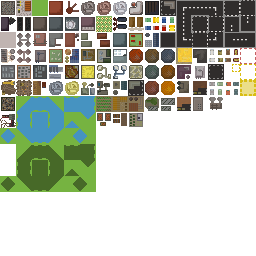
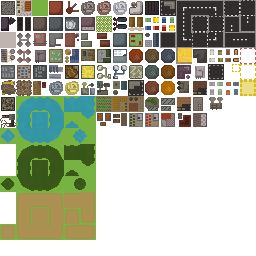
fix ci

diff --git a/src/game/ui/construction.rs b/src/game/ui/construction.rs
@@ -19,7 +19,7 @@ use crate::game::{
         DeliveryStation, Depot, ImportExportDirection, ImportExportStation, StorageManagement,
     },
     storage::Storage,
-    street::Street,
+    street::{Path, Street},
 };
 
 fn button(
@@ -29,13 +29,13 @@ fn button(
     resources: &ResourceSpecifications,
     account: &Account,
 ) -> Response {
-    let price = item.price(&resources);
+    let price = item.price(resources);
 
     let button = ui.small_button(name);
 
     let mut hover_text = format!(
         "{}\n---\nTotal Cost: {} {}",
-        item.price_description(&resources),
+        item.price_description(resources),
         price.to_formatted_string(&Locale::en),
         CURRENCY
     );
@@ -101,8 +101,9 @@ pub fn construction_ui(
             ui.separator();
 
             egui::containers::ScrollArea::from_max_height(max_height).show(ui, |ui| {
-                let building_names: Vec<&str> = vec![
-                    "Street",
+                if vec![
+                    "Street (Road)",
+                    "Street (Dirt)",
                     "Export Station",
                     "Import Station",
                     "Delivery Station",
@@ -110,17 +111,23 @@ pub fn construction_ui(
                     "Storage Management",
                 ]
                 .into_iter()
-                .filter(|item| filter.match_name(item))
-                .collect();
-
-                if !building_names.is_empty() {
+                .any(|item| filter.match_name(item))
+                {
                     let group_title = "Building: General";
                     let items: Box<dyn FnOnce(&mut Ui)> = Box::new(|ui| {
                         ui.vertical_centered_justified(|ui| {
-                            if filter.match_name("Street")
-                                && button(ui, "Street", &Street, &resources, &account).clicked()
+                            if filter.match_name("Street (Road)")
+                                && button(ui, "Street (Road)", &Street, &resources, &account)
+                                    .clicked()
                             {
                                 selected_tool.tool = Tool::Street;
+                            }
+
+                            if filter.match_name("Street (Dirt)")
+                                && button(ui, "Street (Dirt)", &Path, &resources, &account)
+                                    .clicked()
+                            {
+                                selected_tool.tool = Tool::Path;
                             }
 
                             if filter.match_name("Export Station")

diff --git a/src/game/street.rs b/src/game/street.rs
@@ -20,6 +20,10 @@ use crate::game::{
 #[serde(deny_unknown_fields)]
 pub struct Street;
 
+#[derive(Clone, Serialize, Deserialize, Default)]
+#[serde(deny_unknown_fields)]
+pub struct Path;
+
 impl From<Street> for MapTile {
     fn from(_: Street) -> MapTile {
         MapTile::ExportStation
@@ -32,31 +36,47 @@ impl From<Street> for LayerIndex {
     }
 }
 
+impl From<Path> for MapTile {
+    fn from(_: Path) -> MapTile {
+        MapTile::PathTilesOffset
+    }
+}
+
+impl From<Path> for LayerIndex {
+    fn from(_: Path) -> LayerIndex {
+        LayerIndex::new(BUILDING_LAYER_ID)
+    }
+}
+
 impl PurchaseCost for Street {
     fn price(&self, _resources: &ResourceSpecifications) -> i64 {
         100
     }
 }
 
-pub fn update_streets(
+impl PurchaseCost for Path {
+    fn price(&self, _resources: &ResourceSpecifications) -> i64 {
+        0
+    }
+}
+
+pub fn update_streets<T: 'static + Send + Sync + Default>(
     mut tile_query: Query<
         (&mut Tile, &Position),
-        (
-            With<Street>,
-            With<RequiresUpdate>,
-            Without<UnderConstruction>,
-        ),
+        (With<T>, With<RequiresUpdate>, Without<UnderConstruction>),
     >,
-    street_query: Query<(), With<Street>>,
+    street_query: Query<(), With<T>>,
     map_query: MapQuery,
     map_settings: Res<MapSettings>,
-) {
+) where
+    MapTile: From<T>,
+{
     for (mut tile, position) in tile_query.iter_mut() {
         let mut ns = NeighborStructure::default();
         let pos = UVec2::new(position.position.x, position.position.y);
         let neighbors = map_query.get_tile_neighbors(pos, MAP_ID, BUILDING_LAYER_ID);
         // N, S, W, E, NW, NE, SW, SE.
-        let en = EvalNeighbor {
+        let en: EvalNeighbor<T> = EvalNeighbor {
             map_settings: &map_settings,
             query: &street_query,
         };
@@ -67,7 +87,7 @@ pub fn update_streets(
         ns.east = en.eval_neighbor(neighbors[3]);
 
         let ns_index: u16 = ns.clone().into();
-        tile.texture_index = ns_index + MapTile::from(Street::default()) as u16;
+        tile.texture_index = ns_index + MapTile::from(T::default()) as u16;
         tile.visible = true;
     }
 }

diff --git a/src/game/production/production_building/mod.rs b/src/game/production/production_building/mod.rs
@@ -44,7 +44,7 @@ pub fn production_building(
             let mut has_requisites = true;
             for requisite in product.requisites.iter() {
                 if !has_in_storage(
-                    &consolidator,
+                    consolidator,
                     &mut storage_query,
                     &requisite.resource,
                     requisite.rate,
@@ -76,18 +76,18 @@ pub fn production_building(
                     if has_in_storage(
                         consolidator,
                         &mut storage_query,
-                        &substitute,
+                        substitute,
                         enhancer.rate / rate,
                     ) {
                         modifier *= enhancer.modifier;
-                        consumed_resources.push((&substitute, enhancer.rate / rate));
+                        consumed_resources.push((substitute, enhancer.rate / rate));
                         continue;
                     }
                 }
             }
 
             if has_space_in_storage(
-                &consolidator,
+                consolidator,
                 &mut storage_query,
                 &product.resource,
                 product.rate * modifier,
@@ -113,12 +113,12 @@ pub fn production_building(
         let consumed_resources = &available_products[0].2;
 
         for (resource, amount) in consumed_resources {
-            fetch_from_storage(consolidator, &mut storage_query, &resource, *amount);
-            statistics.consumption.track(&resource, *amount);
+            fetch_from_storage(consolidator, &mut storage_query, resource, *amount);
+            statistics.consumption.track(resource, *amount);
         }
 
         distribute_to_storage(
-            &consolidator,
+            consolidator,
             &mut storage_query,
             &product.resource,
             product.rate * modifier,

diff --git a/src/game/current_tool/street.rs b/src/game/current_tool/street.rs
@@ -10,7 +10,7 @@ use crate::game::{
     construction::UnderConstruction,
     helper::get_entity::get_entity,
     setup::BUILDING_LAYER_ID,
-    street::Street,
+    street::{Path, Street},
 };
 
 use super::{update_neighbor_streets, SelectedTool, Tool};
@@ -33,11 +33,45 @@ pub fn street_placement(
     if let Some(pos) = clicked_tile.pos {
         let entity = get_entity(&mut commands, &mut map_query, pos, BUILDING_LAYER_ID);
 
-        let price = Street::default().price(&resources);
+        let street = Street::default();
+        let price = street.price(&resources);
 
         commands
             .entity(entity)
-            .insert(Street)
+            .insert(street)
+            .insert(RequiresUpdate)
+            .insert(MaintenanceCost::new_from_cost(price))
+            .insert(UnderConstruction::from_fixed_cost(price))
+            .insert(Position { position: pos })
+            .insert(CanDriveOver)
+            .insert(Occupied);
+
+        update_neighbor_streets(&mut commands, &mut map_query, pos, street_query);
+    }
+}
+
+pub fn path_placement(
+    mut commands: Commands,
+    street_query: Query<&Path>,
+    mut map_query: MapQuery,
+    selected_tool: Res<SelectedTool>,
+    clicked_tile: Res<ClickedTile>,
+    resources: Res<ResourceSpecifications>,
+) {
+    if selected_tool.tool != Tool::Path || clicked_tile.occupied_building || !clicked_tile.can_build
+    {
+        return;
+    }
+
+    if let Some(pos) = clicked_tile.pos {
+        let entity = get_entity(&mut commands, &mut map_query, pos, BUILDING_LAYER_ID);
+
+        let street = Path::default();
+        let price = street.price(&resources);
+
+        commands
+            .entity(entity)
+            .insert(street)
             .insert(RequiresUpdate)
             .insert(MaintenanceCost::new_from_cost(price))
             .insert(UnderConstruction::from_fixed_cost(price))

diff --git a/src/game/mod.rs b/src/game/mod.rs
@@ -45,7 +45,7 @@ use self::{
     pathfinder::Pathfinding,
     state_manager::{LoadGameEvent, NewGameEvent, SaveGameEvent},
     statistics::StatisticTracker,
-    street::Street,
+    street::{Path, Street},
     ui::state::{ConfirmDialogState, MainMenuState, SaveGameList},
 };
 
@@ -317,6 +317,7 @@ impl Game {
                     .after(Label::CurrentSelection)
                     .before(Label::Update)
                     .with_system(current_tool::street::street_placement.system())
+                    .with_system(current_tool::street::path_placement.system())
                     .with_system(current_tool::depot::depot_placement.system())
                     .with_system(current_tool::storage::storage_placement.system())
                     .with_system(
@@ -450,7 +451,8 @@ impl Game {
                     .with_system(asset_tiles::delivery_station_update.system())
                     .with_system(asset_tiles::storage_management_update.system())
                     .with_system(asset_tiles::ground_update.system())
-                    .with_system(street::update_streets.system())
+                    .with_system(street::update_streets::<Street>.system())
+                    .with_system(street::update_streets::<Path>.system())
                     .with_system(helper::neighbor_structure::update_tile::<Water>.system())
                     .with_system(helper::neighbor_structure::update_tile::<Forest>.system())
                     .with_system(helper::neighbor_structure::update_tile::<Street>.system())

diff --git a/src/game/production/import_export_station/mod.rs b/src/game/production/import_export_station/mod.rs
@@ -32,7 +32,7 @@ pub fn import_export_station(
                     amount_in_storage(consolidator, &mut storage_query, resource).min(MAX_AMOUNT);
 
                 if amount > 0.0
-                    && fetch_from_storage(&consolidator, &mut storage_query, &resource, amount)
+                    && fetch_from_storage(consolidator, &mut storage_query, resource, amount)
                 {
                     statistics.export.track(resource, amount);
                     let resource = resources.get(resource).unwrap();
@@ -52,7 +52,7 @@ pub fn import_export_station(
                     space_in_storage(consolidator, &mut storage_query, resource).min(MAX_AMOUNT);
 
                 if amount > 0.0 {
-                    distribute_to_storage(&consolidator, &mut storage_query, &resource, amount);
+                    distribute_to_storage(consolidator, &mut storage_query, resource, amount);
 
                     statistics.import.track(resource, amount);
                     let resource = resources.get(resource).unwrap();

diff --git a/src/game/current_tool/mod.rs b/src/game/current_tool/mod.rs
@@ -15,7 +15,6 @@ use super::{
     assets::RequiresUpdate,
     production::ImportExportDirection,
     setup::{BUILDING_LAYER_ID, MAP_ID},
-    street::Street,
 };
 
 #[derive(PartialEq, Eq, Debug)]
@@ -23,6 +22,7 @@ pub enum Tool {
     None,
     Bulldoze,
     Street,
+    Path,
     Storage(String),
     ImportExportStation(ImportExportDirection),
     DeliveryStation,
@@ -42,11 +42,11 @@ impl Default for SelectedTool {
     }
 }
 
-fn update_neighbor_streets(
+fn update_neighbor_streets<T: 'static + Send + Sync + Default>(
     commands: &mut Commands,
     map_query: &mut MapQuery,
     pos: UVec2,
-    street_query: Query<&Street>,
+    street_query: Query<&T>,
 ) {
     let neighbors = map_query.get_tile_neighbors(pos, MAP_ID, BUILDING_LAYER_ID);
     for (_pos, neighbor) in neighbors[0..4].iter() {

diff --git a/src/game/highlight_tiles.rs b/src/game/highlight_tiles.rs
@@ -14,13 +14,13 @@ impl HighlightTiles {
         let current: Vec<UVec2> = self.tiles.clone().into_iter().map(|(pos, _)| pos).collect();
 
         for pos in event.tiles.iter() {
-            if !current.contains(&pos) {
+            if !current.contains(pos) {
                 return true;
             }
         }
 
         for pos in current.iter() {
-            if !event.tiles.contains(&pos) {
+            if !event.tiles.contains(pos) {
                 return true;
             }
         }
@@ -57,7 +57,7 @@ pub fn update_highlight(
     for event in events.iter() {
         updated = true;
 
-        if !tiles.needs_update(&event) {
+        if !tiles.needs_update(event) {
             continue;
         }
 

diff --git a/src/game/state_manager/load_game.rs b/src/game/state_manager/load_game.rs
@@ -80,12 +80,12 @@ fn load_state(
                 }
             }
             GameEntityType::Water => {
-                if let Some(entity) = insert_ground_tile(commands, &game_entity, map_query) {
+                if let Some(entity) = insert_ground_tile(commands, game_entity, map_query) {
                     commands.entity(entity).insert(Water);
                 }
             }
             GameEntityType::Forest => {
-                if let Some(entity) = insert_ground_tile(commands, &game_entity, map_query) {
+                if let Some(entity) = insert_ground_tile(commands, game_entity, map_query) {
                     commands.entity(entity).insert(Forest);
                 }
             }

diff --git a/src/game/ui/state/load_save_game_menu.rs b/src/game/ui/state/load_save_game_menu.rs
@@ -71,7 +71,7 @@ pub fn load_save_game_menu(
                         if ui.button(&button_title).clicked() {
                             if MainMenuState::Load == *menu_state.current() {
                                 app_state.push(AppState::InGame).unwrap();
-                                emit_load_game(&mut commands, &mut load_game, &file_name);
+                                emit_load_game(&mut commands, &mut load_game, file_name);
 
                                 menu_state.pop().unwrap();
                             }

diff --git a/src/game/ui/import_export_station.rs b/src/game/ui/import_export_station.rs
@@ -70,7 +70,7 @@ pub fn edit_ui(
                                     ))
                                     .clicked()
                                 {
-                                    if station.goods.contains(&id) {
+                                    if station.goods.contains(id) {
                                         station.goods = station
                                             .goods
                                             .iter()

diff --git a/src/game/state_manager/helper.rs b/src/game/state_manager/helper.rs
@@ -6,7 +6,7 @@ const ORGANIZATION: &str = "izhevskoye";
 const APPLICATION: &str = "oligarchy";
 
 pub fn generate_save_game_path() -> String {
-    let proj_dirs = ProjectDirs::from(&QUALIFIER, &ORGANIZATION, &APPLICATION)
+    let proj_dirs = ProjectDirs::from(QUALIFIER, ORGANIZATION, APPLICATION)
         .expect("Could not find project directories");
 
     let save_game_path = proj_dirs.config_dir().join("saves");
